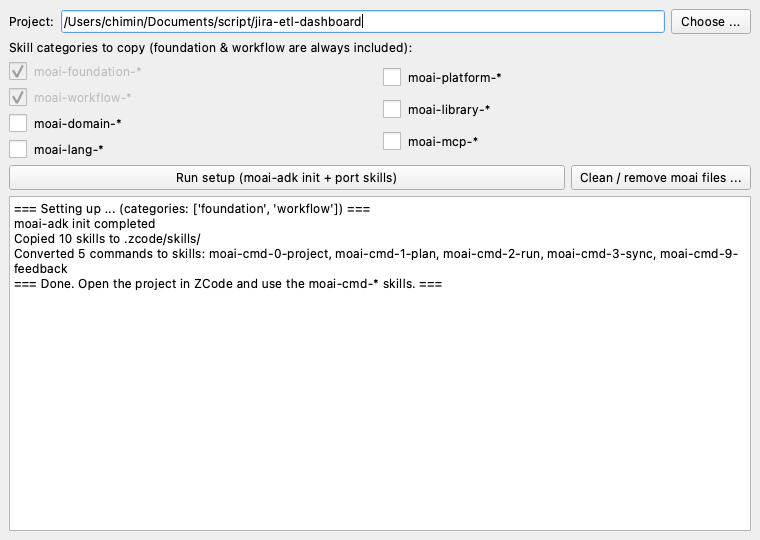
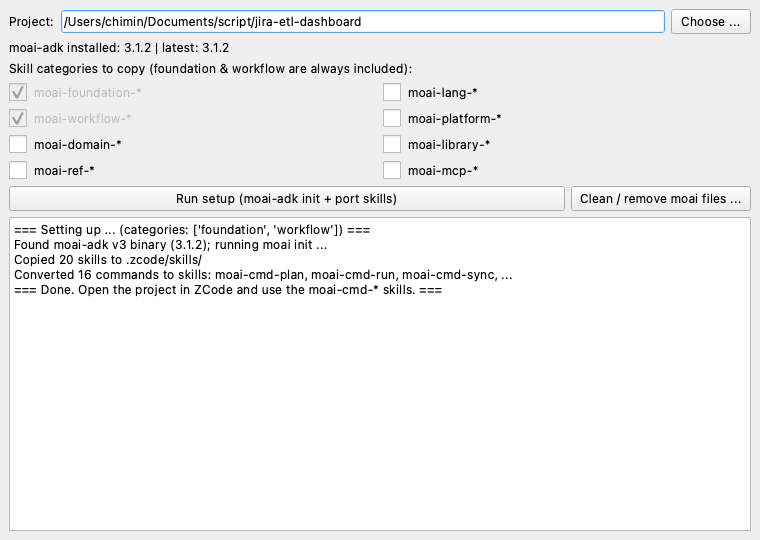
Refresh screenshots: version title, moai status line, install prompt

Changed region(s): [[0.0, 0.0593, 0.9987, 0.563]]

diff --git a/README.md b/README.md
@@ -41,6 +41,15 @@ A small ZCode section is appended to `.gitignore`: ported skills and
 `AGENTS.md` are tracked (they are project workflow assets), while local state
 and secret patterns under `.zcode/skills/` are ignored.
 
+### Auto install/update of moai-adk
+
+The app checks the installed moai-adk version against the latest GitHub
+release. If it is missing or outdated, running setup offers to install or
+update it via the official installer (curl script on macOS/Linux, PowerShell
+on Windows) before continuing.
+
+![Install prompt](docs/screenshot-install.png)
+
 ### Clean / uninstall
 
 ![Clean dialog](docs/screenshot-clean.png)
